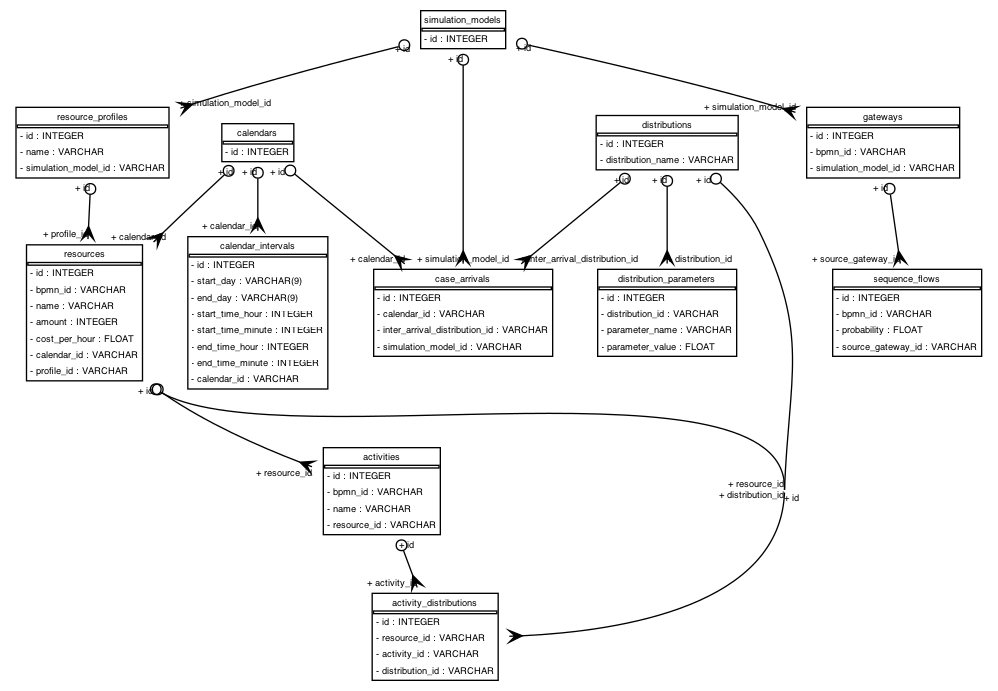
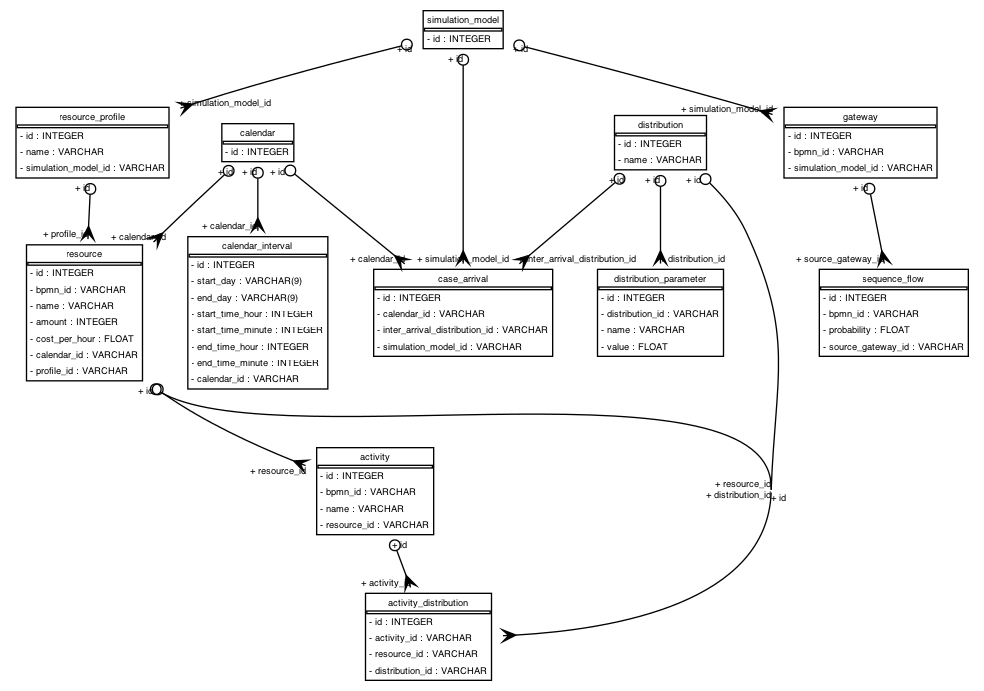
Refactor relational simulation model. Add comments

diff --git a/src/simulation_copilot/prosimos_relational/resource_profile.py b/src/simulation_copilot/prosimos_relational/resource_profile.py
@@ -1,43 +1,67 @@
 import sqlalchemy as sa
+import sqlalchemy.orm
 
 from simulation_copilot.prosimos_relational.base import _Base
 
 
 class Activity(_Base):
-    __tablename__ = "activities"
+    """Activity is a task that is performed by a resource."""
+
+    __tablename__ = "activity"
 
     id = sa.Column(sa.Integer, primary_key=True, autoincrement=True)
     bpmn_id = sa.Column(sa.String, nullable=False)
+    """The BPMN ID of the activity from the BPMN model."""
     name = sa.Column(sa.String, nullable=False)
-    resource_id = sa.Column(sa.String, sa.ForeignKey("resources.id"), nullable=False)
+    """The name of the activity."""
+    resource_id = sa.Column(sa.String, sa.ForeignKey("resource.id"), nullable=False)
+    """The resource that performs this activity."""
 
 
 class ActivityDistribution(_Base):
-    __tablename__ = "activity_distributions"
+    """The activity distribution for the simulator."""
+
+    __tablename__ = "activity_distribution"
 
     id = sa.Column(sa.Integer, primary_key=True, autoincrement=True)
-    resource_id = sa.Column(sa.String, sa.ForeignKey("resources.id"), nullable=False)
-    activity_id = sa.Column(sa.String, sa.ForeignKey("activities.id"), nullable=False)
-    distribution_id = sa.Column(sa.String, sa.ForeignKey("distributions.id"), nullable=False)
+    activity_id = sa.Column(sa.String, sa.ForeignKey("activity.id"), nullable=False)
+    """The activity to which this distribution belongs."""
+    resource_id = sa.Column(sa.String, sa.ForeignKey("resource.id"), nullable=False)
+    """The resource that performs this activity."""
+    distribution_id = sa.Column(sa.String, sa.ForeignKey("distribution.id"), nullable=False)
+    """The distribution of the duration of the activity."""
 
 
 class Resource(_Base):
-    __tablename__ = "resources"
+    """Resource is a person, machine, or other entity that performs activities."""
+
+    __tablename__ = "resource"
 
     id = sa.Column(sa.Integer, primary_key=True, autoincrement=True)
     bpmn_id = sa.Column(sa.String, nullable=False)
+    """The BPMN ID of the resource from the BPMN model."""
     name = sa.Column(sa.String, nullable=False)
     amount = sa.Column(sa.Integer, nullable=False)
+    """The amount of this resource available in the simulation."""
     cost_per_hour = sa.Column(sa.Float, nullable=False)
-    calendar_id = sa.Column(sa.String, sa.ForeignKey("calendars.id"), nullable=False)
-    profile_id = sa.Column(sa.String, sa.ForeignKey("resource_profiles.id"), nullable=False)
-    assigned_activities = sa.orm.relationship("ActivityDistribution", backref="resource")
+    """The cost per hour of this resource."""
+    calendar_id = sa.Column(sa.String, sa.ForeignKey("calendar.id"), nullable=False)
+    """The calendar of availability for this resource."""
+    profile_id = sa.Column(sa.String, sa.ForeignKey("resource_profile.id"), nullable=False)
+    """The profile this resource belongs to."""
+    assigned_activities = sa.orm.relationship(ActivityDistribution, backref="resource")
+    """The activities assigned to this resource and their distributions."""
 
 
 class ResourceProfile(_Base):
-    __tablename__ = "resource_profiles"
+    """Resource profile is a collection of resources."""
+
+    __tablename__ = "resource_profile"
 
     id = sa.Column(sa.Integer, primary_key=True, autoincrement=True)
     name = sa.Column(sa.String, nullable=False)
-    resources = sa.orm.relationship("Resource", backref="profile")
-    simulation_model_id = sa.Column(sa.String, sa.ForeignKey("simulation_models.id"), nullable=False)
+    """The name of the resource profile, e.g., full-time, part-time, senior, junior."""
+    resources = sa.orm.relationship(Resource, backref="profile")
+    """The resources in this profile."""
+    simulation_model_id = sa.Column(sa.String, sa.ForeignKey("simulation_model.id"), nullable=False)
+    """The simulation model this profile belongs to."""

diff --git a/src/simulation_copilot/prosimos_relational/calendar.py b/src/simulation_copilot/prosimos_relational/calendar.py
@@ -1,24 +1,37 @@
 import sqlalchemy as sa
+import sqlalchemy.orm
 
 from simulation_copilot.prosimos.resource_model import Day
 from simulation_copilot.prosimos_relational.base import _Base
 
 
 class CalendarInterval(_Base):
-    __tablename__ = "calendar_intervals"
+    """An interval in a calendar that defines the availability of a resource or the arrival of cases."""
+
+    __tablename__ = "calendar_interval"
 
     id = sa.Column(sa.Integer, primary_key=True, autoincrement=True)
     start_day = sa.Column(sa.Enum(Day), nullable=False)
+    """The start day of the interval, e.g. Monday, Tuesday, etc."""
     end_day = sa.Column(sa.Enum(Day), nullable=False)
+    """The end day of the interval, e.g. Monday, Tuesday, etc."""
     start_time_hour = sa.Column(sa.Integer, nullable=False)
+    """The start hour of the interval, e.g. 8 for 8:00 AM, 13 for 1:00 PM, etc."""
     start_time_minute = sa.Column(sa.Integer, nullable=False)
+    """The start minute of the interval, e.g. 0 for 8:00 AM, 30 for 8:30 AM, etc."""
     end_time_hour = sa.Column(sa.Integer, nullable=False)
+    """The end hour of the interval, e.g. 8 for 8:00 AM, 13 for 1:00 PM, etc."""
     end_time_minute = sa.Column(sa.Integer, nullable=False)
-    calendar_id = sa.Column(sa.String, sa.ForeignKey("calendars.id"), nullable=False)
+    """The end minute of the interval, e.g. 0 for 8:00 AM, 30 for 8:30 AM, etc."""
+    calendar_id = sa.Column(sa.String, sa.ForeignKey("calendar.id"), nullable=False)
+    """The calendar to which this interval belongs."""
 
 
 class Calendar(_Base):
-    __tablename__ = "calendars"
+    """The calendar can define resource availability, case arrival times, and other time-based events."""
+
+    __tablename__ = "calendar"
 
     id = sa.Column(sa.Integer, primary_key=True, autoincrement=True)
-    intervals = sa.orm.relationship("CalendarInterval", backref="calendar")
+    intervals = sa.orm.relationship(CalendarInterval, backref="calendar")
+    """The intervals that define the availability of resources or case arrival times."""

diff --git a/src/simulation_copilot/prosimos_relational/gateway.py b/src/simulation_copilot/prosimos_relational/gateway.py
@@ -1,21 +1,32 @@
 import sqlalchemy as sa
+import sqlalchemy.orm
 
 from simulation_copilot.prosimos_relational.base import _Base
 
 
 class SequenceFlow(_Base):
-    __tablename__ = "sequence_flows"
+    """A sequence flow in a BPMN model that connects activities and gateways."""
+
+    __tablename__ = "sequence_flow"
 
     id = sa.Column(sa.Integer, primary_key=True, autoincrement=True)
     bpmn_id = sa.Column(sa.String, nullable=False)
+    """The BPMN ID of the sequence flow from the BPMN model."""
     probability = sa.Column(sa.Float, nullable=False)
-    source_gateway_id = sa.Column(sa.String, sa.ForeignKey("gateways.id"), nullable=False)
+    """The probability of this sequence flow being taken."""
+    source_gateway_id = sa.Column(sa.String, sa.ForeignKey("gateway.id"), nullable=False)
+    """The gateway from which this sequence flow originates."""
 
 
 class Gateway(_Base):
-    __tablename__ = "gateways"
+    """A gateway in a BPMN model that splits or joins the flow of tokens."""
+
+    __tablename__ = "gateway"
 
     id = sa.Column(sa.Integer, primary_key=True, autoincrement=True)
     bpmn_id = sa.Column(sa.String, nullable=False)
-    outgoing_sequence_flows = sa.orm.relationship("SequenceFlow", backref="source_gateway")
-    simulation_model_id = sa.Column(sa.String, sa.ForeignKey("simulation_models.id"), nullable=False)
+    """The BPMN ID of the gateway from the BPMN model."""
+    outgoing_sequence_flows = sa.orm.relationship(SequenceFlow, backref="source_gateway")
+    """The sequence flows that leave this gateway."""
+    simulation_model_id = sa.Column(sa.String, sa.ForeignKey("simulation_model.id"), nullable=False)
+    """The simulation model to which this gateway belongs."""

diff --git a/src/simulation_copilot/prosimos_relational/distribution.py b/src/simulation_copilot/prosimos_relational/distribution.py
@@ -3,18 +3,23 @@ import sqlalchemy as sa
 from simulation_copilot.prosimos_relational.base import _Base
 
 
+class DistributionParameter(_Base):
+    __tablename__ = "distribution_parameter"
+
+    id = sa.Column(sa.Integer, primary_key=True, autoincrement=True)
+    distribution_id = sa.Column(sa.String, sa.ForeignKey("distribution.id"), nullable=False)
+    """The distribution to which this parameter belongs."""
+    name = sa.Column(sa.String, nullable=False)
+    """The name of the parameter, e.g. "mean" or "stddev"."""
+    value = sa.Column(sa.Float, nullable=False)
+    """The value of the parameter."""
+
+
 class Distribution(_Base):
-    __tablename__ = "distributions"
+    __tablename__ = "distribution"
 
     id = sa.Column(sa.Integer, primary_key=True, autoincrement=True)
-    distribution_name = sa.Column(sa.String, nullable=False)
-    distribution_parameters = sa.orm.relationship("DistributionParameters", backref="distribution")
-
-
-class DistributionParameters(_Base):
-    __tablename__ = "distribution_parameters"
-
-    id = sa.Column(sa.Integer, primary_key=True, autoincrement=True)
-    distribution_id = sa.Column(sa.String, sa.ForeignKey("distributions.id"), nullable=False)
-    parameter_name = sa.Column(sa.String, nullable=False)
-    parameter_value = sa.Column(sa.Float, nullable=False)
+    name = sa.Column(sa.String, nullable=False)
+    """The name of the distribution, e.g. "normal" or "exponential"."""
+    parameters = sa.orm.relationship(DistributionParameter, backref="distribution")
+    """The parameters of the distribution."""

diff --git a/src/simulation_copilot/prosimos_relational/simulation_model.py b/src/simulation_copilot/prosimos_relational/simulation_model.py
@@ -1,16 +1,22 @@
 import sqlalchemy as sa
+import sqlalchemy.orm
 
+from simulation_copilot.prosimos_relational import CaseArrival
 from simulation_copilot.prosimos_relational.base import _Base
+from simulation_copilot.prosimos_relational.gateway import Gateway
+from simulation_copilot.prosimos_relational.resource_profile import ResourceProfile
 
 
 class SimulationModel(_Base):
-    __tablename__ = "simulation_models"
+    """The simulation model with all its components."""
+
+    __tablename__ = "simulation_model"
 
     id = sa.Column(sa.Integer, primary_key=True, autoincrement=True)
 
-    resource_profiles = sa.orm.relationship("ResourceProfile", backref="simulation_model")
+    resource_profiles = sa.orm.relationship(ResourceProfile, backref="simulation_model")
     """Resource profiles with resources and their assigned activities."""
-    gateways = sa.orm.relationship("Gateway", backref="simulation_model")
+    gateways = sa.orm.relationship(Gateway, backref="simulation_model")
     """Gateways, their probabilities and sequence flows."""
-    case_arrival = sa.orm.relationship("CaseArrival", backref="simulation_model")
+    case_arrival = sa.orm.relationship(CaseArrival, backref="simulation_model")
     """The calendar of case arrivals and distribution of inter-arrival times."""

diff --git a/src/simulation_copilot/prosimos_relational/case_arrival.py b/src/simulation_copilot/prosimos_relational/case_arrival.py
@@ -6,12 +6,12 @@ from simulation_copilot.prosimos_relational.base import _Base
 class CaseArrival(_Base):
     """The calendar of case arrivals and distribution of inter-arrival times."""
 
-    __tablename__ = "case_arrivals"
+    __tablename__ = "case_arrival"
 
     id = sa.Column(sa.Integer, primary_key=True, autoincrement=True)
-    calendar_id = sa.Column(sa.String, sa.ForeignKey("calendars.id"), nullable=False)
+    calendar_id = sa.Column(sa.String, sa.ForeignKey("calendar.id"), nullable=False)
     """The calendar of case arrivals."""
-    inter_arrival_distribution_id = sa.Column(sa.String, sa.ForeignKey("distributions.id"), nullable=False)
+    inter_arrival_distribution_id = sa.Column(sa.String, sa.ForeignKey("distribution.id"), nullable=False)
     """The distribution of inter-arrival times for cases."""
-    simulation_model_id = sa.Column(sa.String, sa.ForeignKey("simulation_models.id"), nullable=False)
+    simulation_model_id = sa.Column(sa.String, sa.ForeignKey("simulation_model.id"), nullable=False)
     """The simulation model to which this case arrival model belongs."""
